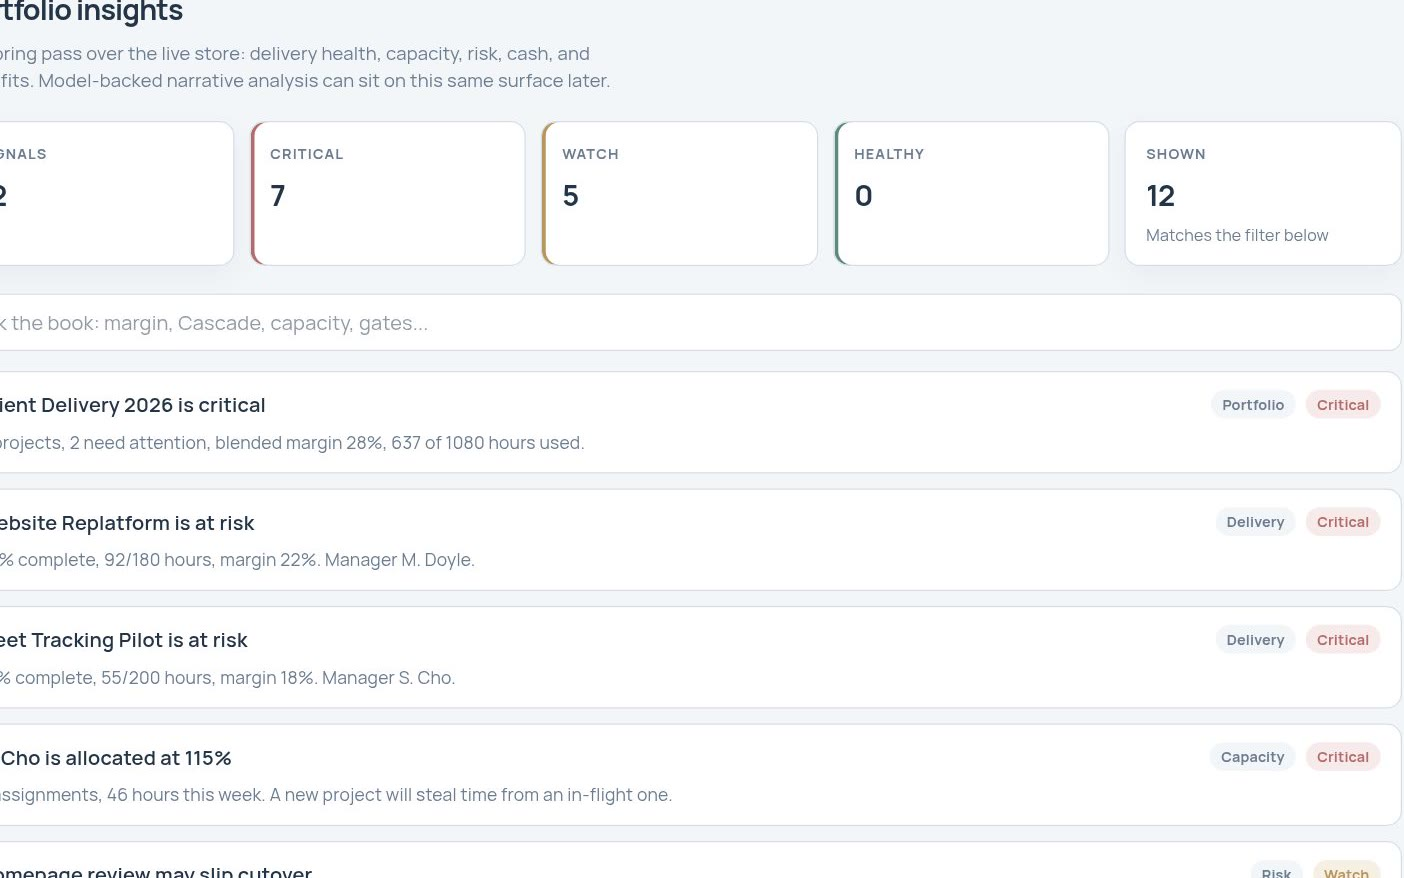
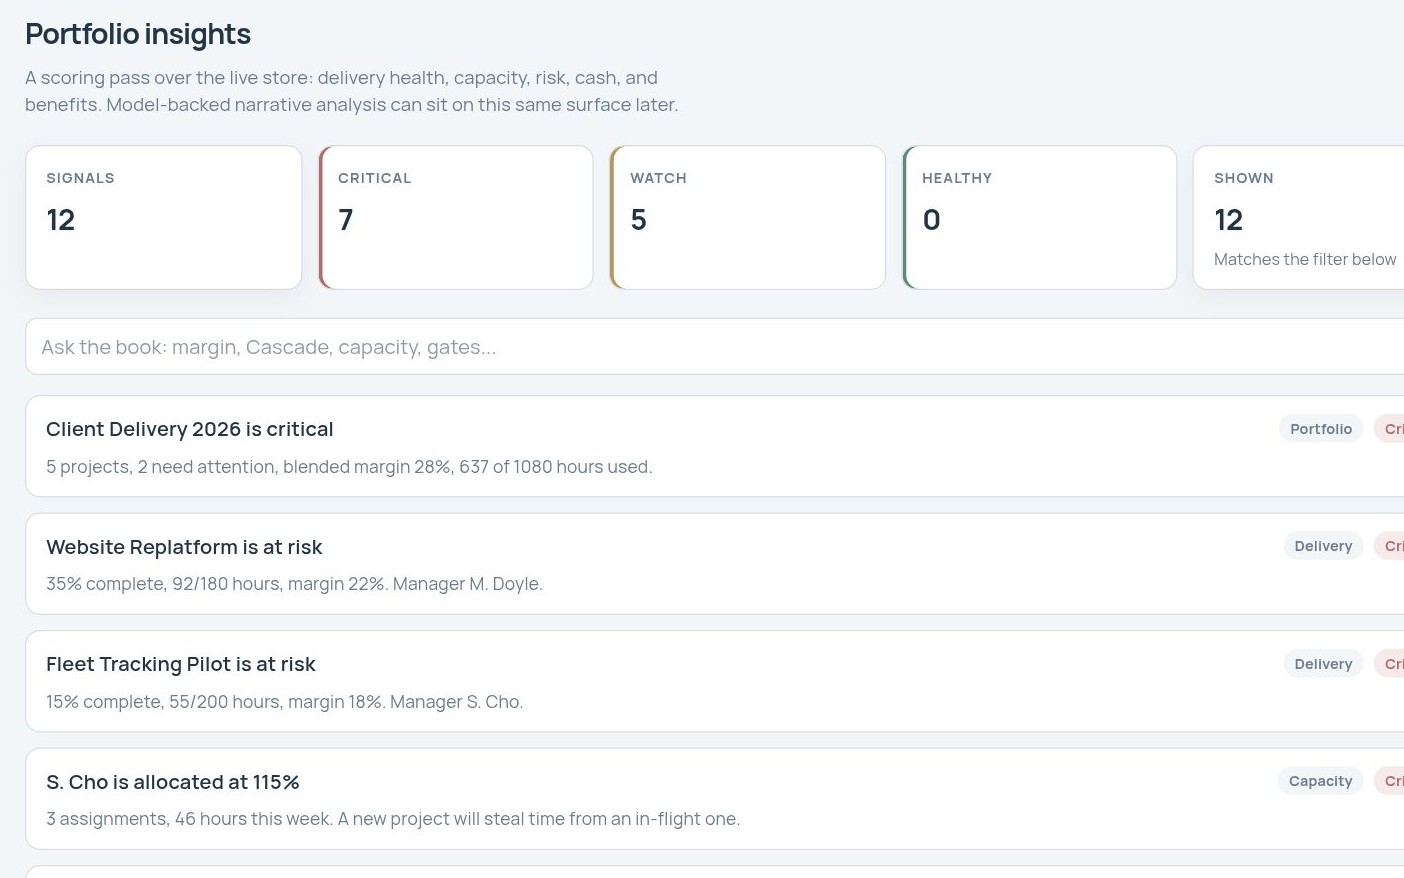
Restore uncut corners on landing product screenshots.
The card JPGs were saved with a rounded mask that sliced titles, and the preview frames added another large radius clip on top.

diff --git a/apps/web/src/app/marketing.css b/apps/web/src/app/marketing.css
@@ -440,7 +440,7 @@
 .mkt-hero-shot {
   position: relative;
   z-index: 1;
-  border-radius: 22px;
+  border-radius: 0;
   overflow: hidden;
   background: #1a2836;
   border: 1px solid rgba(36, 52, 71, 0.4);
@@ -452,10 +452,11 @@
   display: block;
   width: 100%;
   height: auto;
+  border-radius: 0;
 }
 
 .mkt-shot {
-  border-radius: 20px;
+  border-radius: 0;
   overflow: hidden;
   background: #fff;
   border: 1px solid var(--mkt-line);
@@ -533,14 +534,19 @@
   gap: 22px;
   align-items: center;
   margin-top: 22px;
-  padding: 16px;
+  padding: 24px;
   border: 1px solid var(--mkt-line);
   border-radius: 24px;
   background: #fff;
   text-align: left;
 }
 
-.mkt-connect-preview .mkt-shot { margin: 0; box-shadow: none; }
+.mkt-connect-preview .mkt-shot {
+  margin: 0;
+  box-shadow: none;
+  border-radius: 0;
+  overflow: hidden;
+}
 
 .mkt-connect-preview-copy .mkt-kicker { margin-bottom: 8px; }
 

diff --git a/apps/web/src/components/marketing/LandingConnected.tsx b/apps/web/src/components/marketing/LandingConnected.tsx
@@ -26,7 +26,7 @@ const PILLARS = [
     title: "Project planning",
     body: "Turn projects into structured plans with milestones, tasks, dependencies and accountability.",
     detail: "Phases, dates, and owners sit on the same plan the delivery team runs each week.",
-    image: "/marketing/card-plan.jpg",
+    image: "/marketing/card-plan.jpg?v=6",
     watch: "watch-projects",
   },
   {
@@ -50,7 +50,7 @@ const PILLARS = [
     title: "PMO insights",
     body: "Move from project-level information to management-level visibility and decision making.",
     detail: "A weekly brief of capacity, risk, gates, and cash that needs a call.",
-    image: "/marketing/card-insights.jpg",
+    image: "/marketing/card-insights.jpg?v=6",
     watch: "watch-ai",
   },
 ] as const;

diff --git a/apps/web/src/components/marketing/LandingPage.tsx b/apps/web/src/components/marketing/LandingPage.tsx
@@ -84,17 +84,17 @@ const FEATURES = [
 
 const ACTION_SHOTS = [
   {
-    src: "/marketing/card-overview.jpg",
+    src: "/marketing/card-overview.jpg?v=6",
     title: "Project record",
     body: "Status, cost, team, and progress stay on the same job.",
   },
   {
-    src: "/marketing/card-plan.jpg",
+    src: "/marketing/card-plan.jpg?v=6",
     title: "Delivery plan",
     body: "Phases and tasks on a schedule the team can run.",
   },
   {
-    src: "/marketing/card-insights.jpg",
+    src: "/marketing/card-insights.jpg?v=6",
     title: "Weekly brief",
     body: "Capacity, risk, gates, and cash that need attention.",
   },
